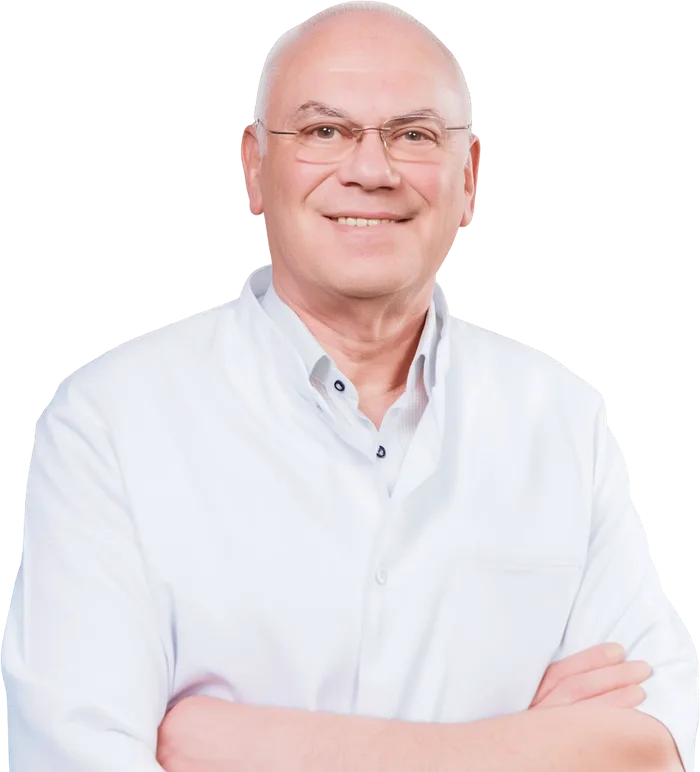
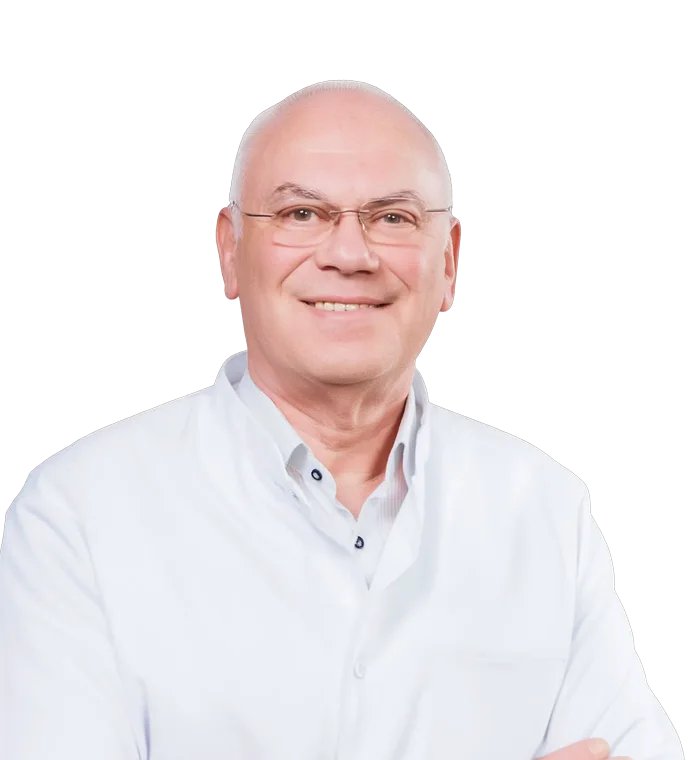
Тексты без ИИ-штампов, выровненные портреты врачей, упрощённый дизайн

diff --git a/index.html b/index.html
@@ -35,7 +35,7 @@ body{background:var(--umber);font-family:var(--sans);color:var(--cream)}
   font:600 12px/1 var(--sans);letter-spacing:.1em;text-transform:uppercase;padding:18px 28px;border-radius:2px;transition:background .2s}
 .btn:hover{background:var(--rust-hover)}
 .btn--sm{padding:14px 22px;font-size:11px}
-.content{margin-top:auto;padding:0 56px 56px;max-width:1000px}
+.content{margin-top:auto;padding:0 56px 96px;max-width:1000px}
 .hero > .play{position:absolute}
 .eyebrow{display:flex;align-items:center;gap:14px;font-size:12px;font-weight:500;letter-spacing:.18em;text-transform:uppercase;color:rgba(236,232,220,.8)}
 .eyebrow::before{content:"";width:40px;height:1px;background:var(--rust);box-shadow:0 0 0 .5px var(--rust)}
@@ -44,26 +44,21 @@ h1 em{font-style:normal;color:var(--linen)}
 .lead{font:300 17px/1.6 var(--sans);max-width:560px;color:rgba(236,232,220,.86)}
 .actions{display:flex;align-items:center;gap:36px;margin-top:40px}
 .link{color:var(--cream);text-decoration:none;font-size:14px;font-weight:500;letter-spacing:.02em;border-bottom:1px solid rgba(236,232,220,.5);padding-bottom:4px}
-.facts{display:grid;grid-template-columns:repeat(4,1fr);border-top:1px solid rgba(236,232,220,.18);margin:0 56px;padding:26px 0 34px}
-.fact{padding-right:24px}
-.fact b{display:block;font:400 32px/1 var(--serif);color:var(--cream)}
-.fact span{display:block;margin-top:8px;font-size:12px;letter-spacing:.04em;color:rgba(236,232,220,.7)}
-.play{position:absolute;right:56px;bottom:150px;display:flex;align-items:center;gap:14px;color:var(--cream);text-decoration:none;font-size:13px;font-weight:500;letter-spacing:.04em}
+.play{position:absolute;right:56px;bottom:56px;display:flex;align-items:center;gap:14px;color:var(--cream);text-decoration:none;font-size:13px;font-weight:500;letter-spacing:.04em}
 .play i{width:64px;height:64px;border-radius:50%;border:1px solid rgba(236,232,220,.6);display:grid;place-items:center;backdrop-filter:blur(6px);background:rgba(46,34,22,.25)}
 .play i::before{content:"";border-left:14px solid var(--cream);border-top:9px solid transparent;border-bottom:9px solid transparent;margin-left:4px}
 /* Блок 2 — Направления */
 .services{background:var(--cream);color:var(--umber);padding:120px 56px 110px}
 .services__head{display:grid;grid-template-columns:1fr 1fr;gap:56px;align-items:end;margin-bottom:72px}
 .services .eyebrow{color:var(--bronze)}
-.services h2{font:400 52px/1.1 var(--serif);margin-top:22px}
-.services h2 span{color:var(--ochre)}
+.services h2{font:400 52px/1.1 var(--serif)}
+.services h2 span{color:inherit}
 .services__lead{font:300 17px/1.6 var(--sans);max-width:480px;color:rgba(46,34,22,.8)}
 .services__grid{display:grid;grid-template-columns:repeat(3,1fr);border-top:1px solid var(--linen)}
 .service{padding:40px 40px 8px 0;border-right:1px solid var(--linen)}
 .service + .service{padding-left:40px}
 .service:last-child{border-right:0;padding-right:0}
-.service__num{font:400 14px/1 var(--serif);color:var(--rust);letter-spacing:.1em}
-.service h3{font:400 30px/1.15 var(--serif);margin:22px 0 16px}
+.service h3{font:400 30px/1.15 var(--serif);margin:0 0 16px}
 .service p{font:300 15px/1.6 var(--sans);color:rgba(46,34,22,.78);min-height:96px}
 .service ul{list-style:none;margin-top:28px;border-top:1px solid var(--linen)}
 .service li a{display:flex;justify-content:space-between;padding:16px 0;border-bottom:1px solid var(--linen);
@@ -71,9 +66,6 @@ h1 em{font-style:normal;color:var(--linen)}
 .service li a::after{content:"→";color:var(--khaki);transition:color .2s}
 .service li a:hover{color:var(--rust);padding-left:6px}
 .service li a:hover::after{color:var(--rust)}
-.services__cta{display:flex;justify-content:space-between;align-items:center;gap:32px;margin-top:72px;padding:36px 44px;background:var(--sage);color:var(--cream)}
-.services__cta p{font:400 26px/1.25 var(--serif);max-width:640px}
-.services__cta p span{color:var(--linen)}
 
 /* Общие */
 .sec{padding:120px 56px}
@@ -82,15 +74,16 @@ h1 em{font-style:normal;color:var(--linen)}
 .sec--cream{background:var(--cream);color:var(--umber)}
 .sec .eyebrow{color:var(--bronze)}
 .sec--dark .eyebrow{color:rgba(236,232,220,.75)}
-.h2{font:400 52px/1.1 var(--serif);margin-top:22px}
-.h2 span{color:var(--ochre)}
-.sec--dark .h2 span{color:var(--linen)}
+.h2{font:400 52px/1.1 var(--serif)}
+.h2 span{color:inherit}
+
 .ph{background:linear-gradient(135deg,#B3A68E,#6D4819) center/cover no-repeat}
 .ph--dark{background:linear-gradient(135deg,#6D4819,#2E2216) center/cover no-repeat}
 
 /* Блок 3 — Главный врач */
 .chief{display:grid;grid-template-columns:5fr 7fr;gap:80px;align-items:center}
 .chief__photo{aspect-ratio:4/5;background-image:url(images/ledin.jpg),linear-gradient(160deg,#C7BFAD,#6D4819);background-position:center top}
+.chief__label{font:500 11px/1 var(--sans);letter-spacing:.14em;text-transform:uppercase;color:var(--bronze)}
 .chief__quote{font:400 30px/1.35 var(--serif);margin:34px 0 26px}
 .chief__quote::before{content:"«";color:var(--rust)}
 .chief__quote::after{content:"»";color:var(--rust)}
@@ -119,11 +112,8 @@ h1 em{font-style:normal;color:var(--linen)}
 /* Блок 5 — Врачи */
 .team__head{display:flex;justify-content:space-between;align-items:end;margin-bottom:56px}
 .team__grid{display:grid;grid-template-columns:repeat(4,1fr);gap:48px 24px}
-.doc__photo{aspect-ratio:4/5;margin-bottom:20px;overflow:hidden;display:flex;align-items:flex-end;justify-content:center;
-  background:radial-gradient(120% 90% at 50% 100%,#D9D1BF 0%,#C7BFAD 55%,#B3A68E 100%);transition:background .3s}
-.doc:nth-child(even) .doc__photo{background:radial-gradient(120% 90% at 50% 100%,#A9B3A4 0%,#8C9886 55%,#6B7B69 100%)}
-.doc__photo img{width:86%;height:auto;display:block;transition:transform .5s ease}
-.doc:hover .doc__photo img{transform:scale(1.03)}
+.doc__photo{aspect-ratio:700/760;margin-bottom:20px;overflow:hidden;background:#D8D1C1}
+.doc__photo img{width:100%;height:100%;display:block}
 .doc h4{font:400 22px/1.2 var(--serif)}
 .doc p{font:300 13px/1.5 var(--sans);color:rgba(46,34,22,.75);margin-top:8px}
 .doc small{display:block;margin-top:10px;font:500 11px/1.4 var(--sans);letter-spacing:.06em;text-transform:uppercase;color:var(--rust)}
@@ -132,23 +122,17 @@ h1 em{font-style:normal;color:var(--linen)}
 /* Блок 6 — Как проходит лечение */
 .steps{display:grid;grid-template-columns:repeat(4,1fr);gap:32px;margin-top:64px;counter-reset:s}
 .step{border-top:1px solid var(--linen);padding-top:28px;position:relative}
-.step::before{counter-increment:s;content:"0" counter(s);position:absolute;top:-1px;left:0;width:48px;border-top:2px solid var(--rust);padding-top:20px;font:400 14px/1 var(--serif);color:var(--rust);letter-spacing:.1em}
-.step h4{font:400 24px/1.2 var(--serif);margin:28px 0 12px}
+
+.step h4{font:400 24px/1.2 var(--serif);margin:0 0 12px}
 .step p{font:300 14px/1.6 var(--sans);color:rgba(46,34,22,.75)}
 
-/* Блок 7 — Видео */
-.video{position:relative;height:620px;display:flex;align-items:center;justify-content:center;text-align:center;
   background-image:linear-gradient(rgba(46,34,22,.45),rgba(46,34,22,.6)),url(images/space-2.jpg),linear-gradient(160deg,#977842,#2E2216);background-size:cover;background-position:center;color:var(--cream)}
-.video__btn{width:96px;height:96px;border-radius:50%;border:1px solid rgba(236,232,220,.7);display:grid;place-items:center;margin:0 auto 28px}
-.video__btn::before{content:"";border-left:20px solid var(--cream);border-top:13px solid transparent;border-bottom:13px solid transparent;margin-left:6px}
-.video h2{font:400 44px/1.15 var(--serif)}
-.video p{font:300 15px/1.6 var(--sans);margin-top:14px;color:rgba(236,232,220,.8)}
 
 /* Блок 8 — Запись */
 .book{display:grid;grid-template-columns:1fr 1fr;gap:80px;background:var(--sage);color:var(--cream)}
 .book .eyebrow{color:rgba(236,232,220,.8)}
 .book .eyebrow::before{background:var(--cream)}
-.book .h2 span{color:var(--linen)}
+
 .book__lead{font:300 16px/1.6 var(--sans);margin-top:24px;max-width:440px;color:rgba(236,232,220,.85)}
 .book__phone{display:block;margin-top:40px;font:400 30px/1 var(--serif);color:var(--cream);text-decoration:none}
 .form{display:grid;gap:16px;align-self:center}
@@ -182,8 +166,6 @@ h1 em{font-style:normal;color:var(--linen)}
 }
 @media (max-width:900px){
   .steps{grid-template-columns:1fr 1fr}
-  .video{height:440px}
-  .video h2{font-size:30px}
   .book,.contacts,.footer__top{grid-template-columns:1fr;gap:40px}
   .footer{padding:56px 16px 32px}
   .footer__bottom{flex-direction:column}
@@ -199,10 +181,8 @@ h1 em{font-style:normal;color:var(--linen)}
   .services__head,.services__grid{grid-template-columns:1fr}
   .service,.service + .service{padding:32px 0 8px;border-right:0}
   .services h2{font-size:36px}
-  .services__cta{flex-direction:column;align-items:flex-start;padding:28px 20px}
   .topbar,.nav__menu,.nav__phone,.play{display:none}
   .nav,.content{padding-left:16px;padding-right:16px}
-  .facts{margin:0 16px;grid-template-columns:repeat(2,1fr);row-gap:20px}
   h1{font-size:46px}
   .actions{flex-direction:column;align-items:flex-start;gap:20px}
 }
@@ -231,35 +211,26 @@ h1 em{font-style:normal;color:var(--linen)}
   <div class="content">
     <div class="eyebrow">Частная онкологическая клиника</div>
     <h1>Сложные решения&nbsp;—<br><em>в&nbsp;спокойном пространстве</em></h1>
-    <p class="lead">Индивидуальная тактика лечения, международные протоколы и&nbsp;консилиум по&nbsp;каждому случаю. Под руководством онколога Евгения Ледина, 20&nbsp;лет&nbsp;практики.</p>
+    <p class="lead">Тактику лечения подбирают для каждого пациента, сложные случаи разбирают на&nbsp;консилиуме. Клинику возглавляет онколог Евгений Ледин, у&nbsp;него 20&nbsp;лет&nbsp;практики.</p>
     <div class="actions">
       <a class="btn" href="#">Записаться на&nbsp;консультацию</a>
       <a class="link" href="#">Получить второе мнение&nbsp;→</a>
     </div>
-  </div>
-
-  <div class="facts">
-    <div class="fact"><b>20&nbsp;лет</b><span>опыт главного врача</span></div>
-    <div class="fact"><b>50+</b><span>клинических исследований</span></div>
-    <div class="fact"><b>Консилиум</b><span>по&nbsp;каждому случаю</span></div>
-    <div class="fact"><b>Хамовники</b><span>центр Москвы, своя парковка</span></div>
   </div>
 </section>
 
 <section class="services">
   <div class="services__head">
     <div>
-      <div class="eyebrow">Направления</div>
-      <h2>Весь путь лечения&nbsp;—<br><span>в&nbsp;одной клинике</span></h2>
+      <h2>Обследование и&nbsp;лечение<br><span>в&nbsp;одной клинике</span></h2>
     </div>
     <p class="services__lead">От&nbsp;первой консультации до&nbsp;курса терапии вас ведёт одна команда. Врачи видят всю историю болезни и&nbsp;принимают решения вместе, на&nbsp;консилиуме.</p>
   </div>
 
   <div class="services__grid">
     <article class="service">
-      <div class="service__num">01</div>
       <h3>Консультация</h3>
-      <p>Объясним, что происходит, и&nbsp;составим индивидуальную карту лечения, чтобы пройти сложный путь максимально спокойно.</p>
+      <p>Врач объяснит диагноз и&nbsp;составит индивидуальную карту лечения.</p>
       <ul>
         <li><a href="#">Консультация онколога</a></li>
         <li><a href="#">Консультация химиотерапевта</a></li>
@@ -268,9 +239,8 @@ h1 em{font-style:normal;color:var(--linen)}
       </ul>
     </article>
     <article class="service">
-      <div class="service__num">02</div>
       <h3>Лечение</h3>
-      <p>Химиотерапия, таргетная и&nbsp;иммунотерапия по&nbsp;международным протоколам, с&nbsp;оригинальными европейскими препаратами.</p>
+      <p>Химиотерапия, таргетная и&nbsp;иммунотерапия по&nbsp;международным протоколам. Используем оригинальные европейские препараты.</p>
       <ul>
         <li><a href="#">Химиотерапия</a></li>
         <li><a href="#">Таргетная терапия</a></li>
@@ -279,9 +249,8 @@ h1 em{font-style:normal;color:var(--linen)}
       </ul>
     </article>
     <article class="service">
-      <div class="service__num">03</div>
       <h3>Диагностика</h3>
-      <p>Работаем с&nbsp;ведущими лабораториями и&nbsp;диагностическими центрами, чтобы поставить точный диагноз и&nbsp;выбрать верную тактику.</p>
+      <p>Анализы и&nbsp;исследования делаем вместе с&nbsp;лабораториями и&nbsp;диагностическими центрами-партнёрами.</p>
       <ul>
         <li><a href="#">Лабораторные исследования</a></li>
         <li><a href="#">Инструментальная диагностика</a></li>
@@ -290,19 +259,14 @@ h1 em{font-style:normal;color:var(--linen)}
       </ul>
     </article>
   </div>
-
-  <div class="services__cta">
-    <p>Не&nbsp;знаете, с&nbsp;чего начать? <span>Врач разберёт ваши документы и&nbsp;подскажет следующий шаг.</span></p>
-    <a class="btn" href="#">Записаться на&nbsp;консультацию</a>
-  </div>
 </section>
 
 <section class="sec sec--linen">
   <div class="chief">
     <div class="chief__photo ph" role="img" aria-label="Евгений Ледин"></div>
     <div>
-      <div class="eyebrow">Главный врач и&nbsp;основатель</div>
-      <p class="chief__quote">Рак может быть излечим при своевременной диагностике, точном диагнозе и&nbsp;правильно выбранной тактике. Наша задача&nbsp;— найти её&nbsp;для каждого пациента</p>
+      <div class="chief__label">Главный врач и&nbsp;основатель</div>
+      <p class="chief__quote">Рак можно вылечить, если вовремя его найти, точно поставить диагноз и&nbsp;правильно выбрать тактику лечения</p>
       <div class="chief__name">Евгений Витальевич Ледин</div>
       <div class="chief__role">Онколог, химиотерапевт, кандидат медицинских наук</div>
       <ul class="chief__list">
@@ -319,10 +283,9 @@ h1 em{font-style:normal;color:var(--linen)}
 <section class="sec sec--dark">
   <div class="space__head">
     <div>
-      <div class="eyebrow">Пространство</div>
       <h2 class="h2">Клиника, в&nbsp;которой<br><span>становится спокойнее</span></h2>
     </div>
-    <p class="space__lead">Мы&nbsp;создавали интерьер не&nbsp;как больницу, а&nbsp;как место, где можно выдохнуть: природные оттенки, тёплый свет, искусство на&nbsp;стенах и&nbsp;тишина.</p>
+    <p class="space__lead">В&nbsp;интерьере природные оттенки, тёплый свет и&nbsp;живопись на&nbsp;стенах, фоном звучит тихая музыка.</p>
   </div>
   <div class="space__grid">
     <div class="s1 ph"><span>Гостиная</span></div>
@@ -332,16 +295,15 @@ h1 em{font-style:normal;color:var(--linen)}
     <div class="s5 ph"><span>Лестница</span></div>
   </div>
   <div class="space__feats">
-    <div><h4>Без больничных запахов</h4><p>Чистый воздух и&nbsp;никакой стерильной холодности: здесь не&nbsp;хочется торопиться уйти.</p></div>
-    <div><h4>Природные оттенки</h4><p>Дерево, камень, мягкий текстиль и&nbsp;зелень за&nbsp;окнами снимают напряжение с&nbsp;первых минут.</p></div>
-    <div><h4>Приватность</h4><p>Отдельные зоны для процедур и&nbsp;ожидания, чтобы каждый пациент чувствовал себя защищённым.</p></div>
+    <div><h4>Без больничных запахов</h4><p>В&nbsp;клинике не&nbsp;пахнет лекарствами.</p></div>
+    <div><h4>Природные материалы</h4><p>Дерево, камень и&nbsp;текстиль спокойных цветов, за&nbsp;окнами зелень.</p></div>
+    <div><h4>Отдельные палаты</h4><p>В&nbsp;палате есть зона отдыха, рядом могут находиться родственники.</p></div>
   </div>
 </section>
 
 <section class="sec sec--cream">
   <div class="team__head">
     <div>
-      <div class="eyebrow">Врачи</div>
       <h2 class="h2">Команда, которая<br><span>решает вместе</span></h2>
     </div>
     <a class="link link--dark" href="#">Все врачи клиники&nbsp;→</a>
@@ -359,29 +321,19 @@ h1 em{font-style:normal;color:var(--linen)}
 </section>
 
 <section class="sec sec--linen">
-  <div class="eyebrow">Как мы&nbsp;работаем</div>
-  <h2 class="h2">Понятный путь<br><span>с&nbsp;первого звонка</span></h2>
+  <h2 class="h2">Как проходит<br><span>первое обращение</span></h2>
   <div class="steps">
-    <div class="step"><h4>Заявка</h4><p>Оставьте телефон. Координатор перезвонит, ответит на&nbsp;вопросы и&nbsp;подберёт удобное время.</p></div>
+    <div class="step"><h4>Заявка</h4><p>Оставьте телефон, администратор перезвонит и&nbsp;запишет на&nbsp;приём.</p></div>
     <div class="step"><h4>Консультация</h4><p>Врач изучит документы и&nbsp;результаты обследований, объяснит ситуацию простым языком.</p></div>
-    <div class="step"><h4>Консилиум</h4><p>Сложный случай обсуждают несколько специалистов, чтобы выбрать лучшую тактику.</p></div>
-    <div class="step"><h4>План лечения</h4><p>Вы&nbsp;получаете индивидуальную карту лечения и&nbsp;координатора, который ведёт вас до&nbsp;конца.</p></div>
-  </div>
-</section>
-
-<section class="video">
-  <div>
-    <a class="video__btn" href="#" aria-label="Смотреть видео"></a>
-    <h2>Посмотрите клинику<br>до&nbsp;первого визита</h2>
-    <p>Видеоэкскурсия · 1&nbsp;минута</p>
+    <div class="step"><h4>Консилиум</h4><p>Сложный случай разбирают несколько специалистов и&nbsp;вместе выбирают тактику.</p></div>
+    <div class="step"><h4>План лечения</h4><p>Вы&nbsp;получаете индивидуальную карту лечения. Между приёмами лечащий врач остаётся на&nbsp;связи.</p></div>
   </div>
 </section>
 
 <section class="sec book">
   <div>
-    <div class="eyebrow">Запись на&nbsp;приём</div>
-    <h2 class="h2">Сделайте первый шаг&nbsp;—<br><span>мы&nbsp;поможем с&nbsp;остальным</span></h2>
-    <p class="book__lead">Оставьте номер телефона, и&nbsp;координатор перезвонит, ответит на&nbsp;вопросы и&nbsp;запишет на&nbsp;приём.</p>
+    <h2 class="h2">Запишитесь<br><span>на&nbsp;консультацию</span></h2>
+    <p class="book__lead">Оставьте номер, администратор перезвонит и&nbsp;запишет на&nbsp;приём.</p>
     <a class="book__phone" href="tel:+74954922482">+7&nbsp;495&nbsp;492-24-82</a>
   </div>
   <form class="form" onsubmit="return false">
@@ -396,7 +348,6 @@ h1 em{font-style:normal;color:var(--linen)}
 <section class="sec sec--cream">
   <div class="contacts">
     <div>
-      <div class="eyebrow">Контакты</div>
       <h2 class="h2">В&nbsp;центре Москвы,<br><span>в&nbsp;Хамовниках</span></h2>
       <dl>
         <dt>Адрес</dt><dd>Москва, ул.&nbsp;Трубецкая,&nbsp;12</dd>
